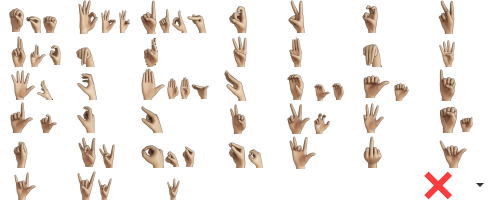
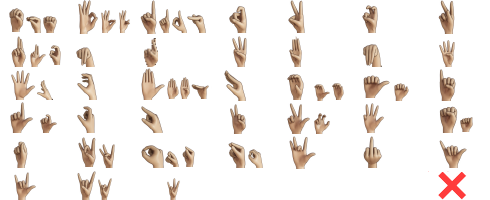
Try and fix the image replacement problems on Safari. Show 'Any Handshape' text instead of the X for any shape option.

Changed region(s): [[0.8571, 0.84, 0.949, 1.0], [0.9796, 0.9, 1.0, 0.93]]

diff --git a/media/bootstrap_css/bsl.css b/media/bootstrap_css/bsl.css
@@ -174,9 +174,8 @@ body, html {
   height: 34px;
   width: 70px;
 
-  /* Hide the text */
-  text-indent: -999em;
-  letter-spacing: -999em;
+  text-indent: -999px;
+  font-size: 0;
   overflow: hidden;
 }
 
@@ -226,7 +225,12 @@ body, html {
 #dropdown_menu_handshape.x4x6 { background-position: -210px -170px; }
 #dropdown_menu_handshape.x5x6 { background-position: -280px -170px; }
 #dropdown_menu_handshape.x6x6 { background-position: -350px -170px; }
-#dropdown_menu_handshape.x7x6 { background-position: -420px -170px; }
+#dropdown_menu_handshape.x7x6 {
+  background-position: -280px -170px;
+  width: 140px;
+  text-indent: 0;
+  font-size: 1em;
+}
 
 #states {
   width: 250px;

diff --git a/media/js/signbank.js b/media/js/signbank.js
@@ -23,7 +23,7 @@ $(document).ready(function() {
   // Fill in the existing handshape for this search
   // Fill the text for accessibility and set the image by looking up the coords
   var existing = $("#id_handshape option:selected").text();
-  if (existing == 'No Value Set') {
+  if (existing == 'Any handshape') {
     existing = 'Any Handshape';
   }
   $('#dropdown_menu_handshape span.content').text(existing);
